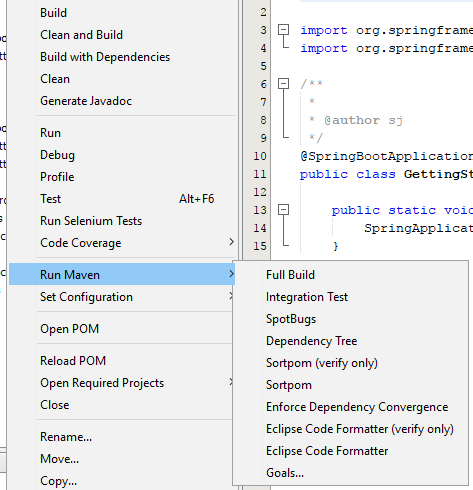
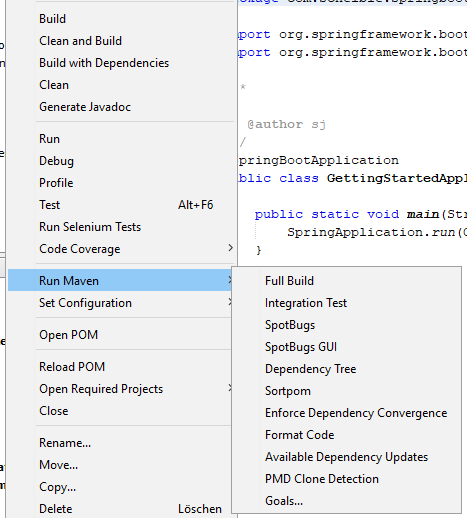
- added impsort-maven-plugin - added cpd-check of maven-pmd-plugin - added findsecbugs-plugin and fb-contrib to spotbugs-maven-plugin - added 'Available Dependency Updates' with versions:display-dependency-updates

diff --git a/src/test/java/com/scheible/springbootgettingstarted/GettingStartedApplicationIT.java b/src/test/java/com/scheible/springbootgettingstarted/GettingStartedApplicationIT.java
@@ -1,6 +1,7 @@
 package com.scheible.springbootgettingstarted;
 
 import static org.assertj.core.api.Assertions.assertThat;
+
 import org.junit.Test;
 import org.junit.runner.RunWith;
 import org.springframework.beans.factory.annotation.Autowired;

diff --git a/src/test/java/com/scheible/springbootgettingstarted/GettingStartedApplicationTest.java b/src/test/java/com/scheible/springbootgettingstarted/GettingStartedApplicationTest.java
@@ -1,6 +1,7 @@
 package com.scheible.springbootgettingstarted;
 
 import static org.assertj.core.api.Assertions.assertThat;
+
 import org.junit.Test;
 
 /**

diff --git a/README.md b/README.md
@@ -23,11 +23,12 @@ Highly opinionated selection of Maven plugins made accessible via the Netbeans U
   - **[Full Build]** a full `clean install` with verification
   - **[Integration Test]** `failsafe:integration-test`
   - **[SpotBugs]** `spotbugs:check`
+  - **[SpotBugs GUI]** `spotbugs:gui`  
   - **[Dependency Tree]** `dependency:tree`
-  - **[Sortpom (verify only)]** `sortpom:verify`
   - **[Sortpom]** `sortpom:sorty`
   - **[Enforce Dependency Convergence]** `enforcer:enforce`
-  - **[Eclipse Code Formatter (verify only)]** `formatter:validate` according to `eclipse-formatter-config.xml`
-  - **[Eclipse Code Formatter]** `formatter:format` according to `eclipse-formatter-config.xml`
+  - **[Format Code]** `formatter:format` according to `eclipse-formatter-config.xml` and `impsort:sort`
+  - **[Available Dependency Updates]** `versions:display-dependency-updates`
+  - **[PMD Clone Detection]** `pmd:cpd-check`
 
   **Note**: In order to speed up the IDE actions as much as possible **[Run]**, **[Debug]**, and **[Test]** are even skipping `resources:[test]Resources` and `compiler:[test]Compile` and simply use the current contents of the `target` directory.
